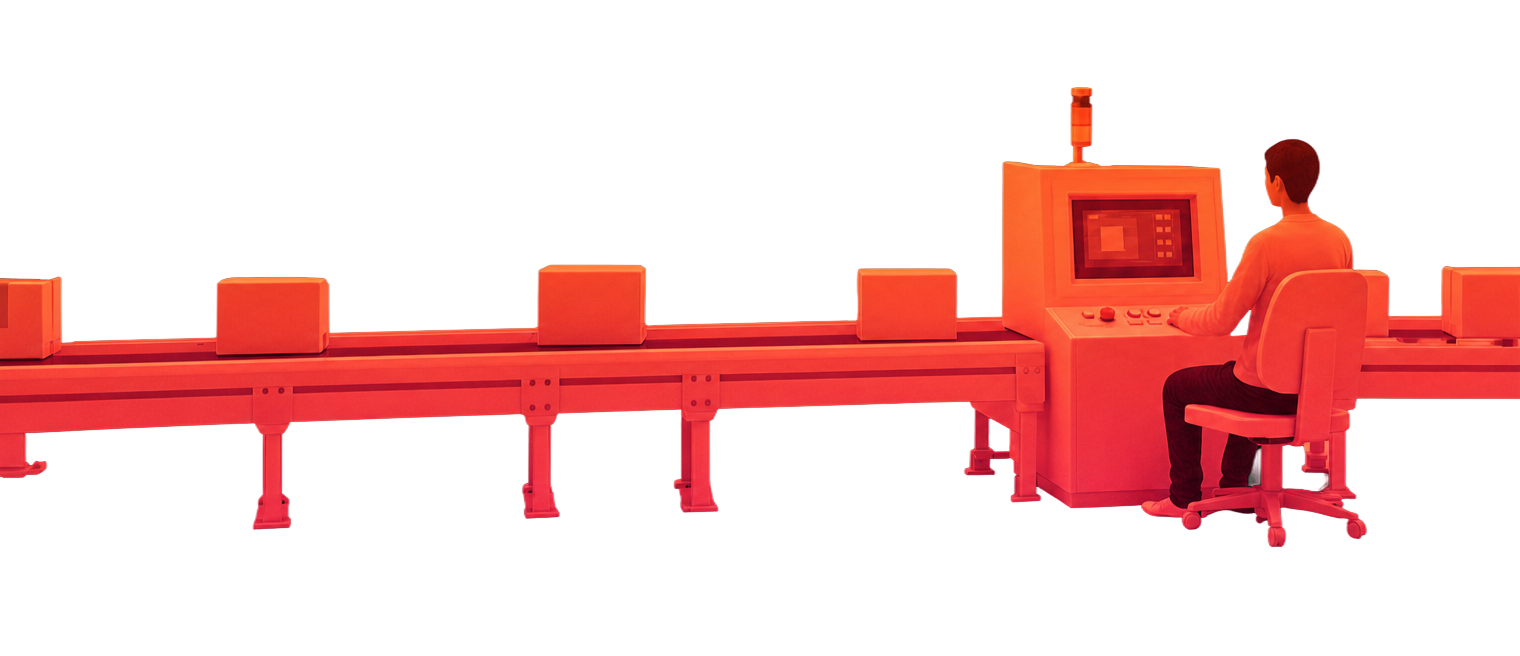
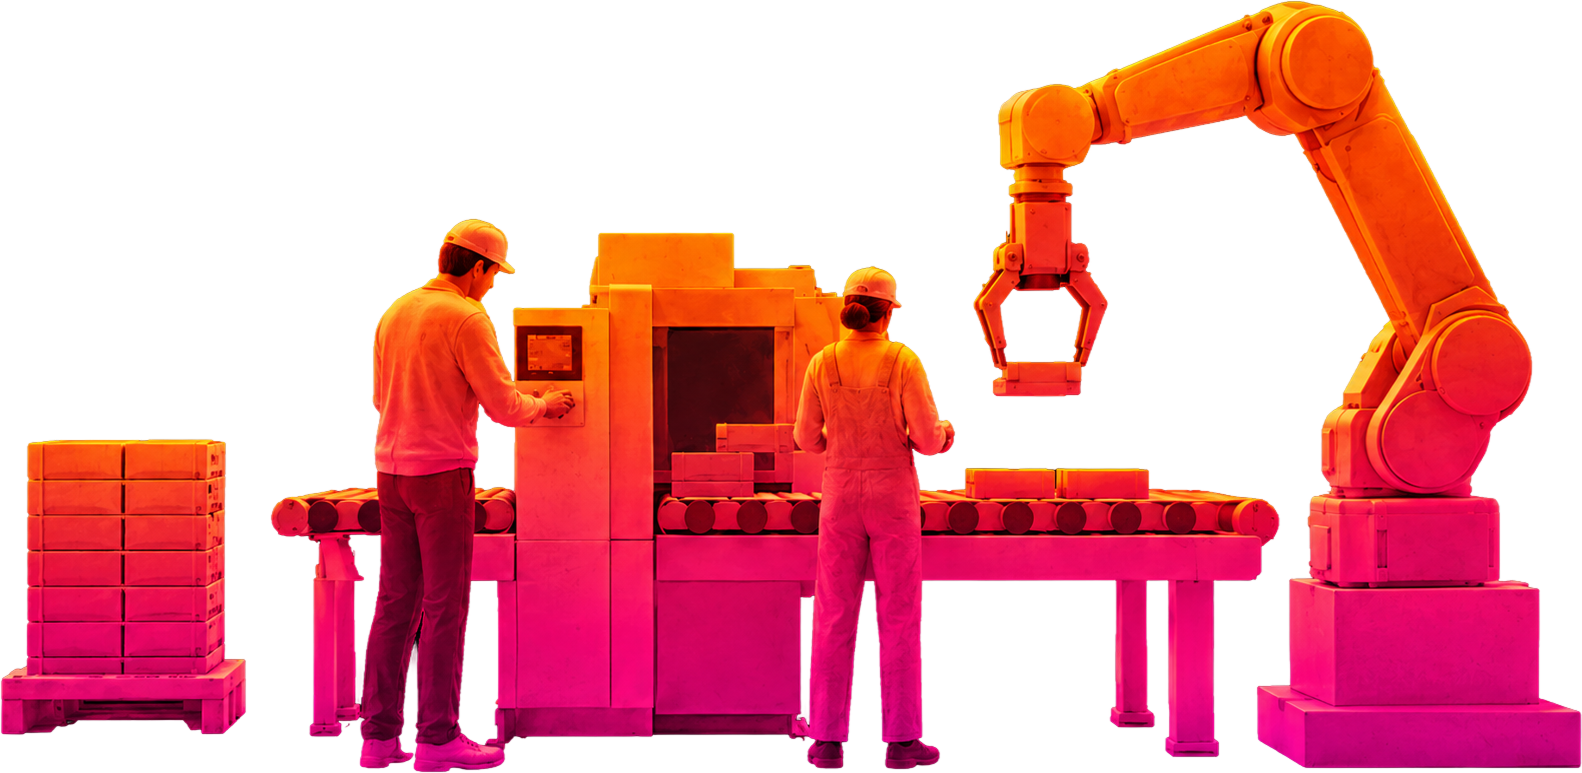
Swap the hero's manufacturing cutout for the client's new scene - two workers at a machine with a robot arm - cropped to its opaque bounds so the feet stay on the floor line, with the piece's aspect updated to the file's own ratio; and a launch config so the dev server starts from the browser pane

diff --git a/src/app/sections/hero/hero-cards.tsx b/src/app/sections/hero/hero-cards.tsx
@@ -126,10 +126,13 @@ const cards: StandingCard[] = [
     label: "Manufacturing",
     pieces: [
       {
+        // The client's new manufacturing scene (11 Sep 2026): two workers
+        // at a machine with a robot arm, cropped to its opaque bounds, so
+        // the aspect is the file's own pixel ratio.
         image: media.hero.manufacturing,
         left: "-1.47%",
         width: "102.83%",
-        aspect: "252.352 / 109.353",
+        aspect: "1582 / 773",
       },
     ],
     left: "40.9%",
